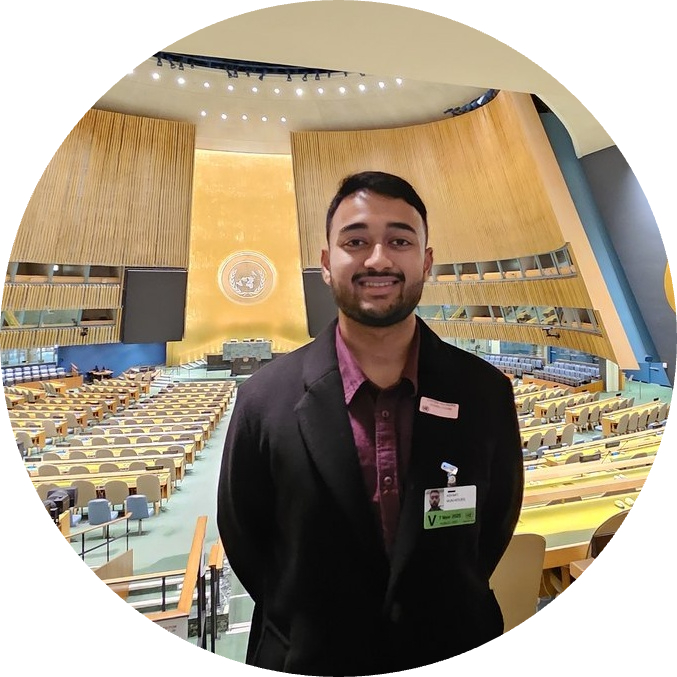
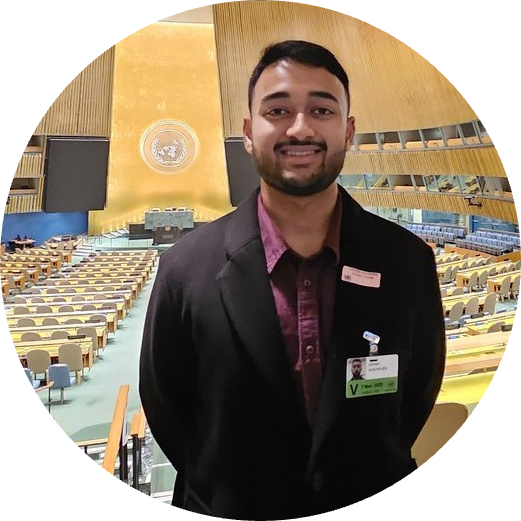
ok looks good

diff --git a/style.css b/style.css
@@ -173,16 +173,18 @@ h3 {
     border-radius: 8px;
     box-shadow: var(--shadow);
     padding: 24px;
+    text-align: center;
 }
 
 .profile-photo {
-    width: min(100%, 600px);
+    width: 100%;
+    max-width: 280px;   /* control size here */
     height: auto;
     aspect-ratio: 1 / 1;
     border-radius: 50%;
     object-fit: cover;
+    margin: 0 auto 24px; 
 }
-
 .profile-facts {
     display: grid;
     gap: 14px;
@@ -813,8 +815,8 @@ h3 {
     }
 
     .profile-photo {
-        height: 168px;
-        width: 168px;
+        height: 200px;
+        width: 200px;
     }
 
     .profile-facts {

diff --git a/index.html b/index.html
@@ -26,6 +26,7 @@
         <nav class="container" aria-label="Primary navigation">
             <a class="nav-brand" href="index.html">Ashmit Mukherjee</a>
             <div class="nav-links">
+                <a href="index.html">Home</a>
                 <a href="research.html">Research</a>
                 <a href="publications.html">Publications</a>
                 <a href="projects.html">Projects</a>
@@ -39,8 +40,8 @@
                 <div class="hero-copy">
                     <p class="eyebrow">New York University Abu Dhabi</p>
                     <h1>Ashmit Mukherjee</h1>
-                    <p class="lead">Undergraduate researcher in computational social science and human&ndash;AI interaction.</p>
-                    <p class="hero-summary">I study how artificial agents reshape human cooperation, coordination, and norm formation. My work combines machine learning, simulation, and social-scientific theory to ask when AI-mediated interventions stabilize collective behavior and when they disrupt it.</p>
+                    <p class="lead">Undergraduate researcher studying learning and decision-making in structured systems, spanning human&ndash;AI interaction and biological sequence modeling.</p>
+                    <p class="hero-summary">I study how learning systems extract and use structure in complex environments. My work spans human&ndash;AI interaction, where I analyze cooperation and coordination in multi-agent settings, and biological sequence modeling, where I work on protein representation learning. I use machine learning, simulation, and theory to understand and guide behavior in structured systems.</p>
                 </div>
                 <aside class="profile-panel" aria-label="Profile summary">
                     <img class="profile-photo" src="ashmit-profile.jpg" alt="Ashmit Mukherjee" width="677" height="677">
@@ -69,7 +70,7 @@
                     <h2>Academic Profile</h2>
                 </div>
                 <div class="content-stack">
-                    <p class="section-lead">I am a B.S. Computer Science student at New York University Abu Dhabi, with a minor in Economics and an expected graduation date of May 2027. My academic work has moved from applied machine learning and NLP toward computational social science, where I am especially interested in how technical systems change strategic behavior in groups.</p>
+                    <p class="section-lead">I am a B.S. Computer Science student at New York University Abu Dhabi, with a minor in Economics and an expected graduation date of May 2027. My research focuses on learning and decision-making in structured systems. I study how models extract structure from complex data and how that structure shapes behavior, with applications in multi-agent social systems and protein sequence modeling.</p>
                     <article class="entry">
                         <h3>Research Direction</h3>
                         <p>My current research focuses on mixed human&ndash;AI populations: settings where people, institutions, and artificial agents jointly shape outcomes through coordination, monitoring, advice, and commitment. I approach these questions through simulation, game-theoretic modeling, and empirical evaluation.</p>